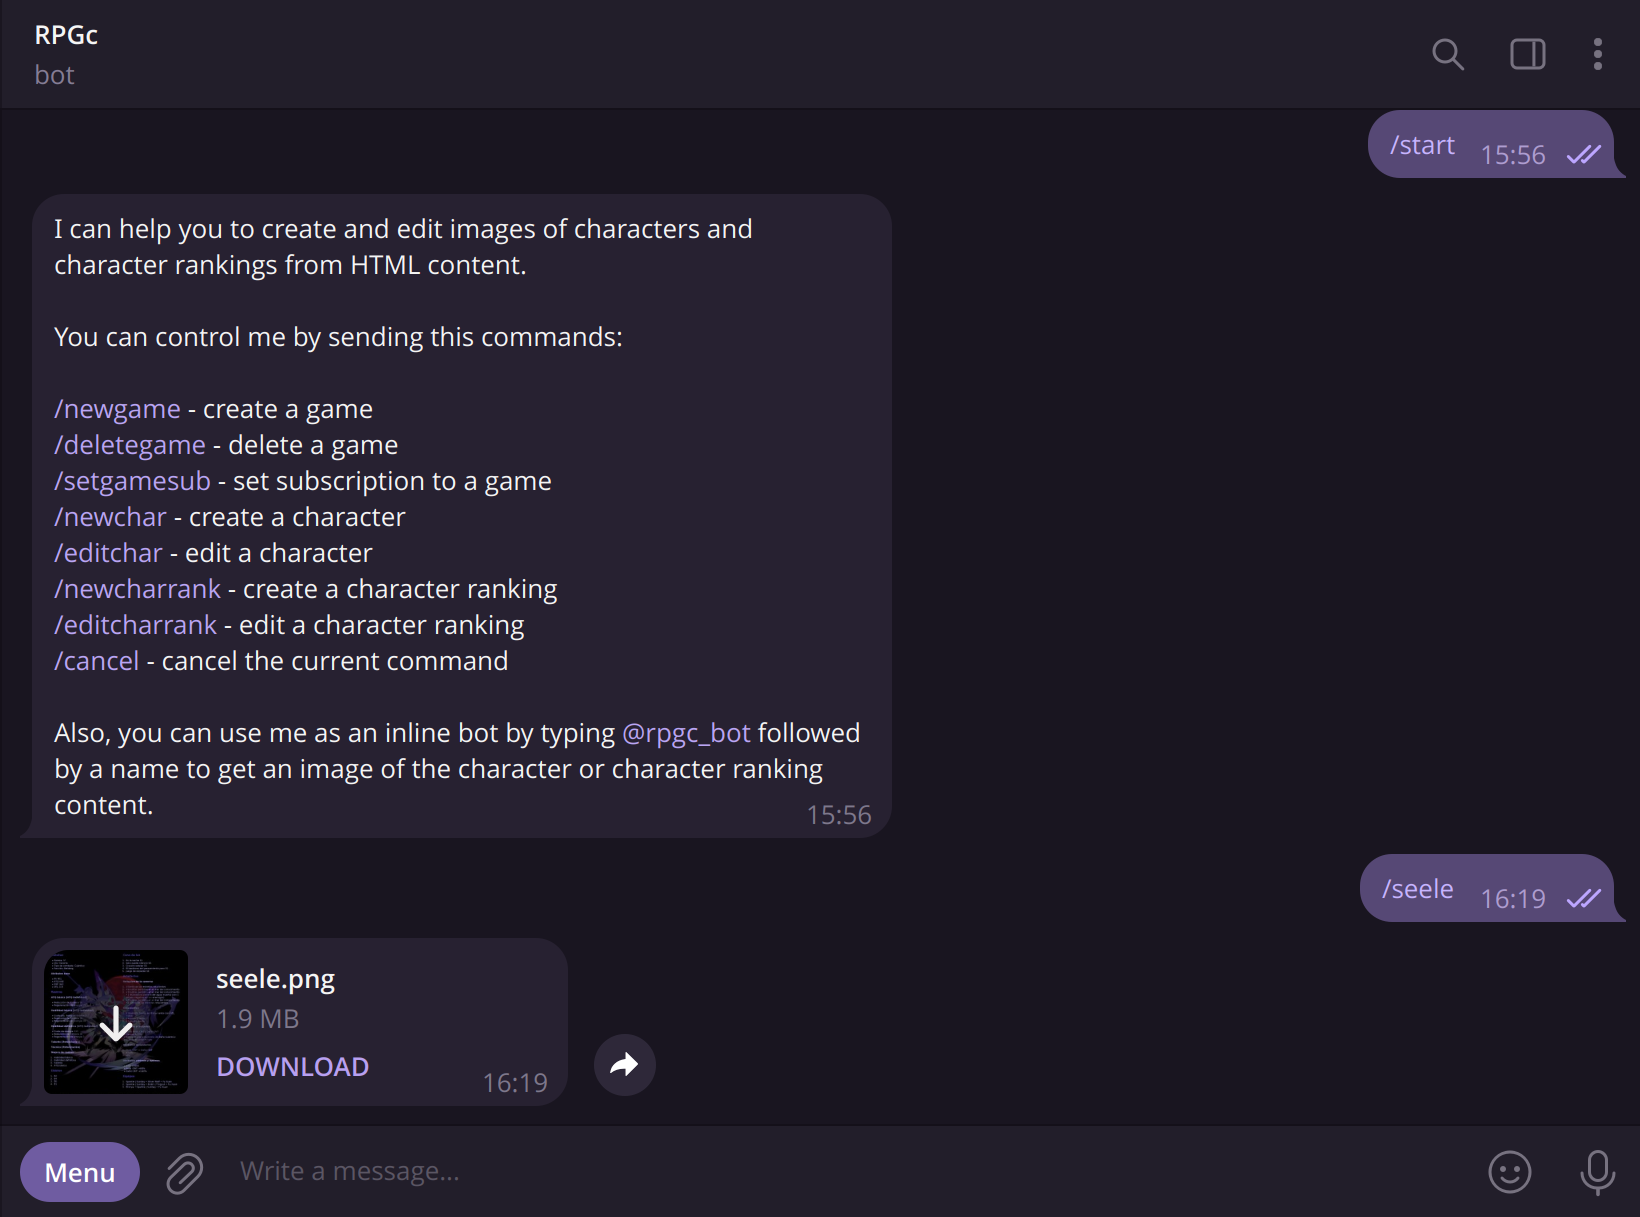
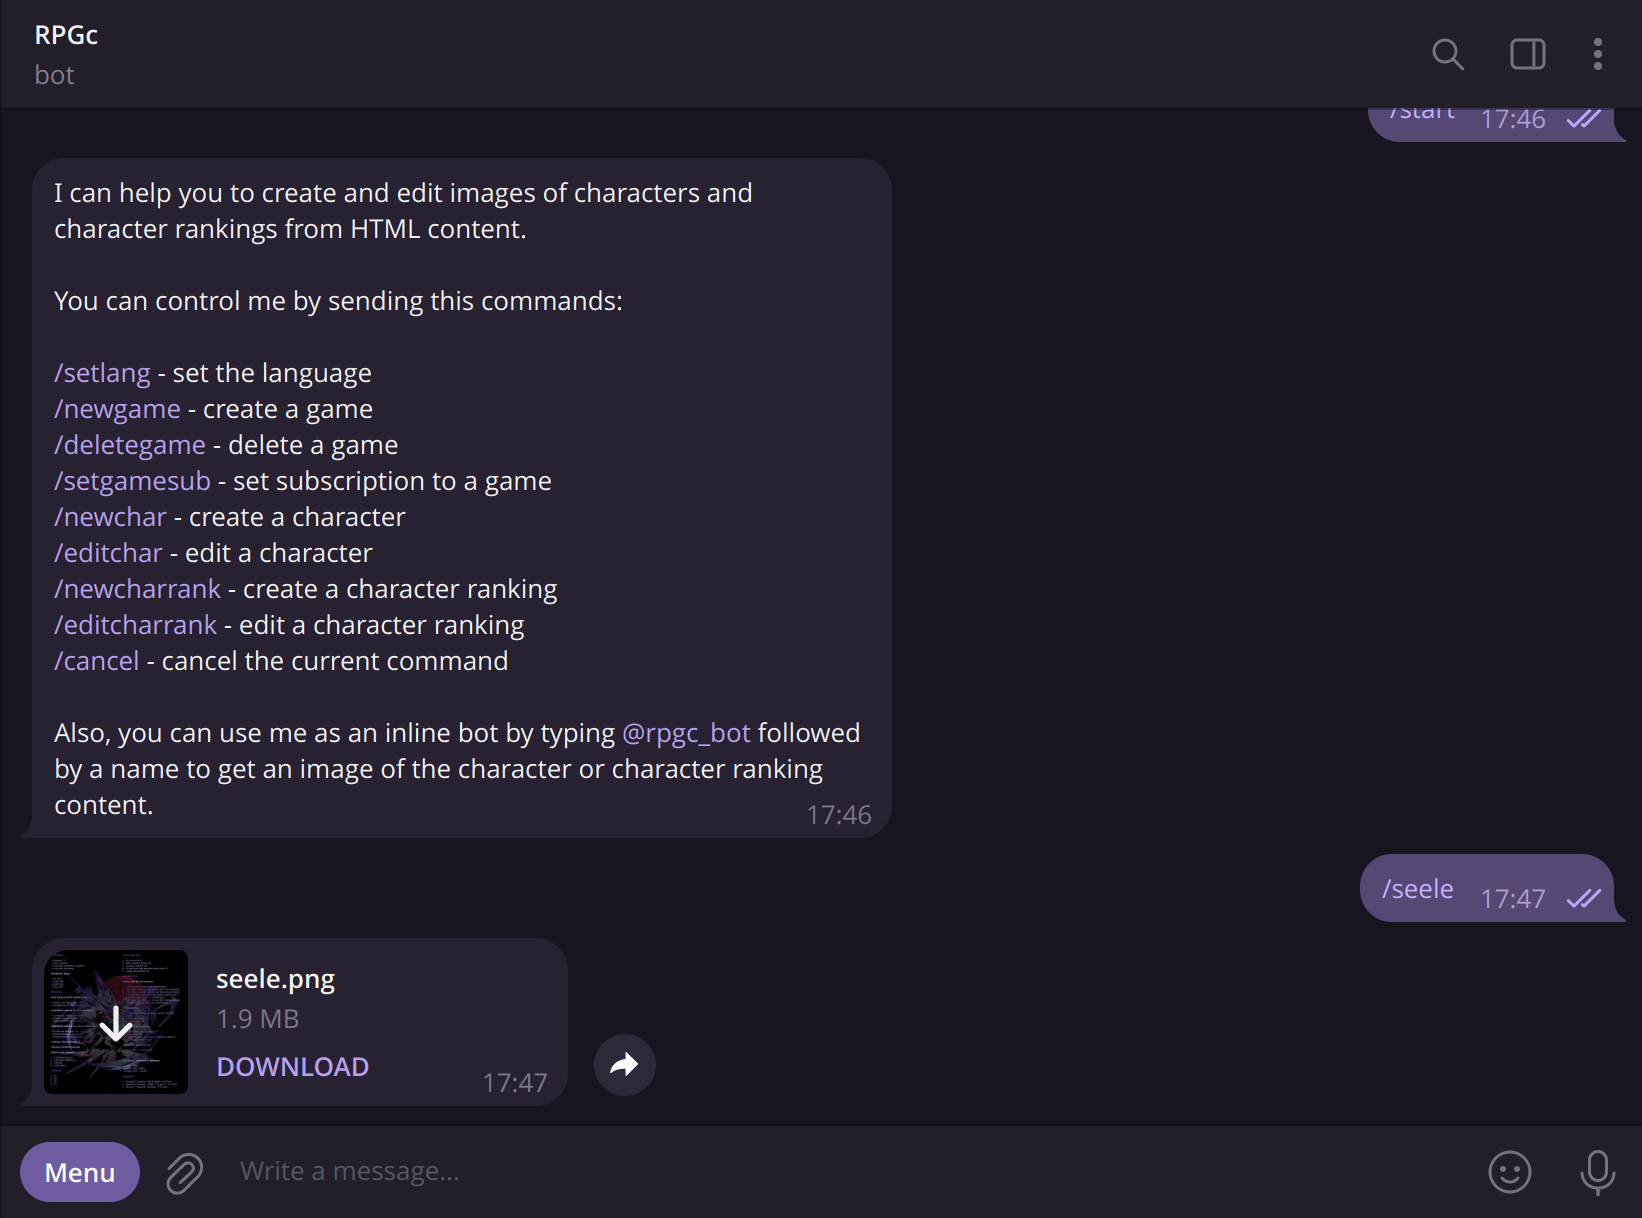
Add setlang command

diff --git a/bot/src/main/kotlin/io/github/oxiadenine/rpgc/Main.kt b/bot/src/main/kotlin/io/github/oxiadenine/rpgc/Main.kt
@@ -27,6 +27,7 @@ import java.util.concurrent.ConcurrentHashMap
 
 enum class Command {
     START,
+    SETLANG,
     NEWGAME,
     DELETEGAME,
     SETGAMESUB,
@@ -59,9 +60,11 @@ fun Application.bot(
 
         dispatch {
             message(Filter.Command) {
-                val intl = message.from?.languageCode?.let { locale -> Intl(locale) } ?: Intl()
-
                 val userId = message.chat.id
+
+                var intl = userRepository.read(userId)?.let { user ->
+                    Intl(user.language)
+                } ?: message.from?.languageCode?.let { locale -> Intl(locale) } ?: Intl()
 
                 val commandData = message.text!!.split(" ")
 
@@ -69,6 +72,30 @@ fun Application.bot(
                 val commandArgs = commandData.drop(1)
 
                 if (commandName == Command.START.name) {
+                    val user = userRepository.read(userId)?.let { currentUser ->
+                        val user = User(
+                            id = currentUser.id,
+                            name = message.from?.username ?: currentUser.name,
+                            language = message.from?.languageCode ?: currentUser.language
+                        )
+
+                        userRepository.update(user)
+
+                        user
+                    } ?: run {
+                        val user = User(
+                            id = userId,
+                            name = message.from?.username ?: userId.toString(),
+                            language = message.from?.languageCode ?: Intl.DEFAULT_LOCALE
+                        )
+
+                        userRepository.create(user)
+
+                        user
+                    }
+
+                    intl = Intl(user.language)
+
                     bot.sendMessage(
                         chatId = ChatId.fromId(userId),
                         text = intl.translate(id = "command.start.message")
@@ -76,6 +103,7 @@ fun Application.bot(
 
                     return@message
                 } else if (
+                    commandName != Command.SETLANG.name &&
                     commandName != Command.NEWGAME.name &&
                     commandName != Command.DELETEGAME.name &&
                     commandName != Command.SETGAMESUB.name &&
@@ -143,33 +171,41 @@ fun Application.bot(
                     }
 
                     return@message
+                } else if (commandName == Command.CANCEL.name) {
+                    val currentCommand = currentCommandMap[userId] ?: return@message
+
+                    currentCharacterMap.remove(userId)
+                    currentGameMap.remove(userId)
+                    currentCommandMap.remove(userId)
+
+                    bot.sendMessage(
+                        chatId = ChatId.fromId(userId),
+                        text = intl.translate(
+                            id = "command.cancel.success.message",
+                            value = "commandName" to currentCommand.name.lowercase()
+                        ),
+                        replyMarkup = ReplyKeyboardRemove()
+                    )
+
+                    return@message
                 }
 
                 runCatching {
                     userRepository.read(userId)?.let { user ->
-                        if (commandName == Command.CANCEL.name) {
-                            val currentCommand = currentCommandMap[user.id] ?: return@message
-
-                            currentCharacterMap.remove(user.id)
-                            currentGameMap.remove(user.id)
-                            currentCommandMap.remove(user.id)
-
-                            bot.sendMessage(
-                                chatId = ChatId.fromId(user.id),
-                                text = intl.translate(
-                                    id = "command.cancel.success.message",
-                                    value = "commandName" to currentCommand.name.lowercase()
-                                ),
-                                replyMarkup = ReplyKeyboardRemove()
-                            )
-
-                            return@message
+                        if ((
+                            commandName != Command.START.name &&
+                            commandName != Command.SETLANG.name &&
+                            commandName != Command.CANCEL.name
+                        ) && user.role == User.Role.NORMAL) {
+                            throw User.UnauthorizedError()
                         }
 
-                        if ((commandName == Command.NEWGAME.name ||
+                        if ((
+                            commandName == Command.NEWGAME.name ||
                             commandName == Command.DELETEGAME.name ||
                             commandName == Command.NEWCHAR.name ||
-                            commandName == Command.NEWCHARRANK.name) && user.role == User.Role.EDITOR) {
+                            commandName == Command.NEWCHARRANK.name
+                        ) && user.role != User.Role.ADMIN) {
                             throw User.UnauthorizedError()
                         }
 
@@ -182,6 +218,20 @@ fun Application.bot(
                                     id = "command.cancel.warning.message",
                                     value = "commandName" to currentCommand.name.lowercase()
                                 )
+                            )
+
+                            return@message
+                        }
+
+                        if (commandName == Command.SETLANG.name) {
+                            currentCommandMap[userId] = Command.valueOf(commandName)
+
+                            bot.sendMessage(
+                                chatId = ChatId.fromId(user.id),
+                                text = intl.translate(id = "command.language.list.message"),
+                                replyMarkup = LanguageInlineKeyboardMarkup.create(user, intl.locales.map { locale ->
+                                    Language(intl.translate(id = "command.language.list.item.$locale.message"), locale)
+                                })
                             )
 
                             return@message
@@ -228,7 +278,16 @@ fun Application.bot(
                                 } else GameInlineKeyboardMarkup.create(games)
                             )
                         }
-                    } ?: throw User.UnauthorizedError()
+                    } ?: run {
+                        if (commandName == Command.SETLANG.name) {
+                            bot.sendMessage(
+                                chatId = ChatId.fromId(userId),
+                                text = intl.translate(id = "command.setlang.warning.message")
+                            )
+
+                            return@message
+                        } else throw User.UnauthorizedError()
+                    }
                 }.onFailure { error ->
                     when (error) {
                         is User.UnauthorizedError -> bot.sendMessage(
@@ -248,9 +307,11 @@ fun Application.bot(
             }
 
             message(Filter.Text) {
-                val intl = message.from?.languageCode?.let { locale -> Intl(locale) } ?: Intl()
-
                 val userId = message.chat.id
+
+                val intl = userRepository.read(userId)?.let { user ->
+                    Intl(user.language)
+                } ?: message.from?.languageCode?.let { locale -> Intl(locale) } ?: Intl()
 
                 val currentCommand = currentCommandMap[userId] ?: return@message
 
@@ -534,9 +595,11 @@ fun Application.bot(
             }
 
             message(Filter.Photo) {
-                val intl = message.from?.languageCode?.let { locale -> Intl(locale) } ?: Intl()
-
                 val userId = message.chat.id
+
+                val intl = userRepository.read(userId)?.let { user ->
+                    Intl(user.language)
+                } ?: message.from?.languageCode?.let { locale -> Intl(locale) } ?: Intl()
 
                 val currentCommand = currentCommandMap[userId] ?: return@message
                 val currentGame = currentGameMap[userId] ?: return@message
@@ -641,11 +704,35 @@ fun Application.bot(
             }
 
             callbackQuery {
-                val intl = callbackQuery.from.languageCode?.let { locale -> Intl(locale) } ?: Intl()
-
                 val userId = callbackQuery.message?.chat?.id ?: return@callbackQuery
 
+                val intl = userRepository.read(userId)?.let { user ->
+                    Intl(user.language)
+                } ?: callbackQuery.from.languageCode?.let { locale -> Intl(locale) } ?: Intl()
+
                 val currentCommand = currentCommandMap[userId] ?: return@callbackQuery
+
+                if (currentCommand == Command.SETLANG) {
+                    val user = userRepository.read(userId)!!.let { currentUser ->
+                        User(id = currentUser.id, name = currentUser.name, language = callbackQuery.data)
+                    }
+
+                    userRepository.update(user)
+
+                    currentCommandMap.remove(user.id)
+
+                    bot.sendMessage(
+                        chatId = ChatId.fromId(user.id),
+                        text = intl.translate(
+                            id = "command.setlang.success.message",
+                            value = "language" to intl.translate(
+                                id = "command.language.list.item.${user.language}.message"
+                            )
+                        )
+                    )
+
+                    return@callbackQuery
+                }
 
                 runCatching {
                     val game = gameRepository.read(UUID.fromString(callbackQuery.data))!!
@@ -800,6 +887,7 @@ fun Application.api(userRepository: UserRepository) {
                             put("id", user.id)
                             put("name", user.name)
                             put("role", user.role.name.lowercase())
+                            put("language", user.language)
                         })
                     }
                 })
@@ -813,21 +901,26 @@ fun Application.api(userRepository: UserRepository) {
             val users = mutableListOf<JsonObject>()
 
             body["users"]!!.jsonArray.forEach { jsonElement ->
-                val userId = jsonElement.jsonObject["id"]!!.jsonPrimitive.content.toLong()
-                val userName = jsonElement.jsonObject["name"]!!.jsonPrimitive.content
-                val userRole = jsonElement.jsonObject["role"]!!.jsonPrimitive.content.uppercase()
+                val id = jsonElement.jsonObject["id"]!!.jsonPrimitive.content.toLong()
+                val name = jsonElement.jsonObject["name"]!!.jsonPrimitive.content
+                val role = jsonElement.jsonObject["role"]?.jsonPrimitive?.content?.uppercase()?.let { role ->
+                    User.Role.valueOf(role)
+                } ?: User.Role.EDITOR
+                val language = jsonElement.jsonObject["language"]?.jsonPrimitive?.content ?: Intl.DEFAULT_LOCALE
 
-                val user = User(id = userId, name = userName, role = User.Role.valueOf(userRole))
+                val user = User(id, name, role, language)
 
                 val userExists = userRepository.read(user.id) != null
 
-                if (userExists) userRepository.update(user)
-                else userRepository.create(user)
+                if (userExists) {
+                    userRepository.update(user)
+                } else userRepository.create(user)
 
                 users.add(buildJsonObject {
                     put("id", user.id)
                     put("name", user.name)
                     put("role", user.role.name.lowercase())
+                    put("language", user.language)
                     put(if (userExists) "updated" else "created", true)
                 })
             }
@@ -866,6 +959,7 @@ fun Application.api(userRepository: UserRepository) {
                             put("id", user.id)
                             put("name", user.name)
                             put("role", user.role.name.lowercase())
+                            put("language", user.language)
                         })
                     }
                 })

diff --git a/bot/src/main/kotlin/io/github/oxiadenine/rpgc/repository/UserRepository.kt b/bot/src/main/kotlin/io/github/oxiadenine/rpgc/repository/UserRepository.kt
@@ -8,8 +8,8 @@ import org.jetbrains.exposed.sql.insert
 import org.jetbrains.exposed.sql.selectAll
 import org.jetbrains.exposed.sql.update
 
-class User(val id: Long, val name: String, val role: Role = Role.EDITOR) {
-    enum class Role { ADMIN, EDITOR }
+class User(val id: Long, val name: String, val role: Role = Role.NORMAL, val language: String = "") {
+    enum class Role { ADMIN, EDITOR, NORMAL }
 
     class UnauthorizedError : Error()
 }
@@ -20,6 +20,7 @@ class UserRepository(private val database: Database) {
             statement[id] = user.id
             statement[name] = user.name
             statement[role] = user.role
+            statement[language] = user.language
         }
 
         Unit
@@ -27,18 +28,21 @@ class UserRepository(private val database: Database) {
 
     suspend fun read() = database.transaction {
         UserTable.selectAll().map { record ->
-            User(record[UserTable.id], record[UserTable.name], record[UserTable.role])
+            User(record[UserTable.id], record[UserTable.name], record[UserTable.role], record[UserTable.language])
         }
     }
 
     suspend fun read(id: Long) = database.transaction {
         UserTable.selectAll().where { UserTable.id eq id }.firstOrNull()?.let { record ->
-            User(record[UserTable.id], record[UserTable.name], record[UserTable.role])
+            User(record[UserTable.id], record[UserTable.name], record[UserTable.role], record[UserTable.language])
         }
     }
 
     suspend fun update(user: User) = database.transaction {
-        UserTable.update({ UserTable.id eq user.id }) { statement -> statement[name] = user.name }
+        UserTable.update({ UserTable.id eq user.id }) { statement ->
+            statement[name] = user.name
+            statement[language] = user.language
+        }
 
         Unit
     }

diff --git a/bot/src/main/kotlin/io/github/oxiadenine/rpgc/Intl.kt b/bot/src/main/kotlin/io/github/oxiadenine/rpgc/Intl.kt
@@ -3,22 +3,11 @@ package io.github.oxiadenine.rpgc
 import com.typesafe.config.ConfigFactory
 
 class Intl(locale: String = DEFAULT_LOCALE) {
-    companion object {
-        private val DEFAULT_LOCALE = Language.SPANISH.locale
-    }
+    val locales = listOf(DEFAULT_LOCALE, "en")
 
-    enum class Language(val locale: String) {
-        ENGLISH("en"),
-        SPANISH("es");
-
-        override fun toString() = name.lowercase().replaceFirstChar { it.uppercase() }
-    }
-    
     private val messages: Map<String, String>
     
     init {
-        val locales = Language.entries.map { language -> language.locale }
-        
         val localeResource = if (locales.contains(locale)) {
             "locales/$locale"
         } else "locales/$DEFAULT_LOCALE"
@@ -47,4 +36,8 @@ class Intl(locale: String = DEFAULT_LOCALE) {
 
         translatedMessage
     } ?: ""
+
+    companion object {
+        const val DEFAULT_LOCALE = "es"
+    }
 }

diff --git a/bot/src/main/kotlin/io/github/oxiadenine/rpgc/view/LanguageInlineKeyboardMarkup.kt b/bot/src/main/kotlin/io/github/oxiadenine/rpgc/view/LanguageInlineKeyboardMarkup.kt
@@ -1,0 +1,18 @@
+package io.github.oxiadenine.rpgc.view
+
+import com.github.kotlintelegrambot.entities.InlineKeyboardMarkup
+import com.github.kotlintelegrambot.entities.keyboard.InlineKeyboardButton
+import io.github.oxiadenine.rpgc.repository.User
+
+data class Language(val name: String, val locale: String)
+
+object LanguageInlineKeyboardMarkup {
+    fun create(user: User, languages: List<Language>) = InlineKeyboardMarkup.create(languages.map { language ->
+        val isUserLanguage = language.locale == user.language
+
+        listOf(InlineKeyboardButton.CallbackData(
+            text = if (isUserLanguage) "${language.name} \u2705" else language.name,
+            callbackData = language.locale)
+        )
+    })
+}

diff --git a/bot/src/main/kotlin/io/github/oxiadenine/rpgc/Database.kt b/bot/src/main/kotlin/io/github/oxiadenine/rpgc/Database.kt
@@ -18,6 +18,7 @@ object UserTable : Table("user") {
     val id = long("id").uniqueIndex()
     val name = varchar("name", 64).index()
     val role = enumeration<User.Role>("role")
+    val language = varchar("language", 4)
 
     override val primaryKey = PrimaryKey(id)
 }
